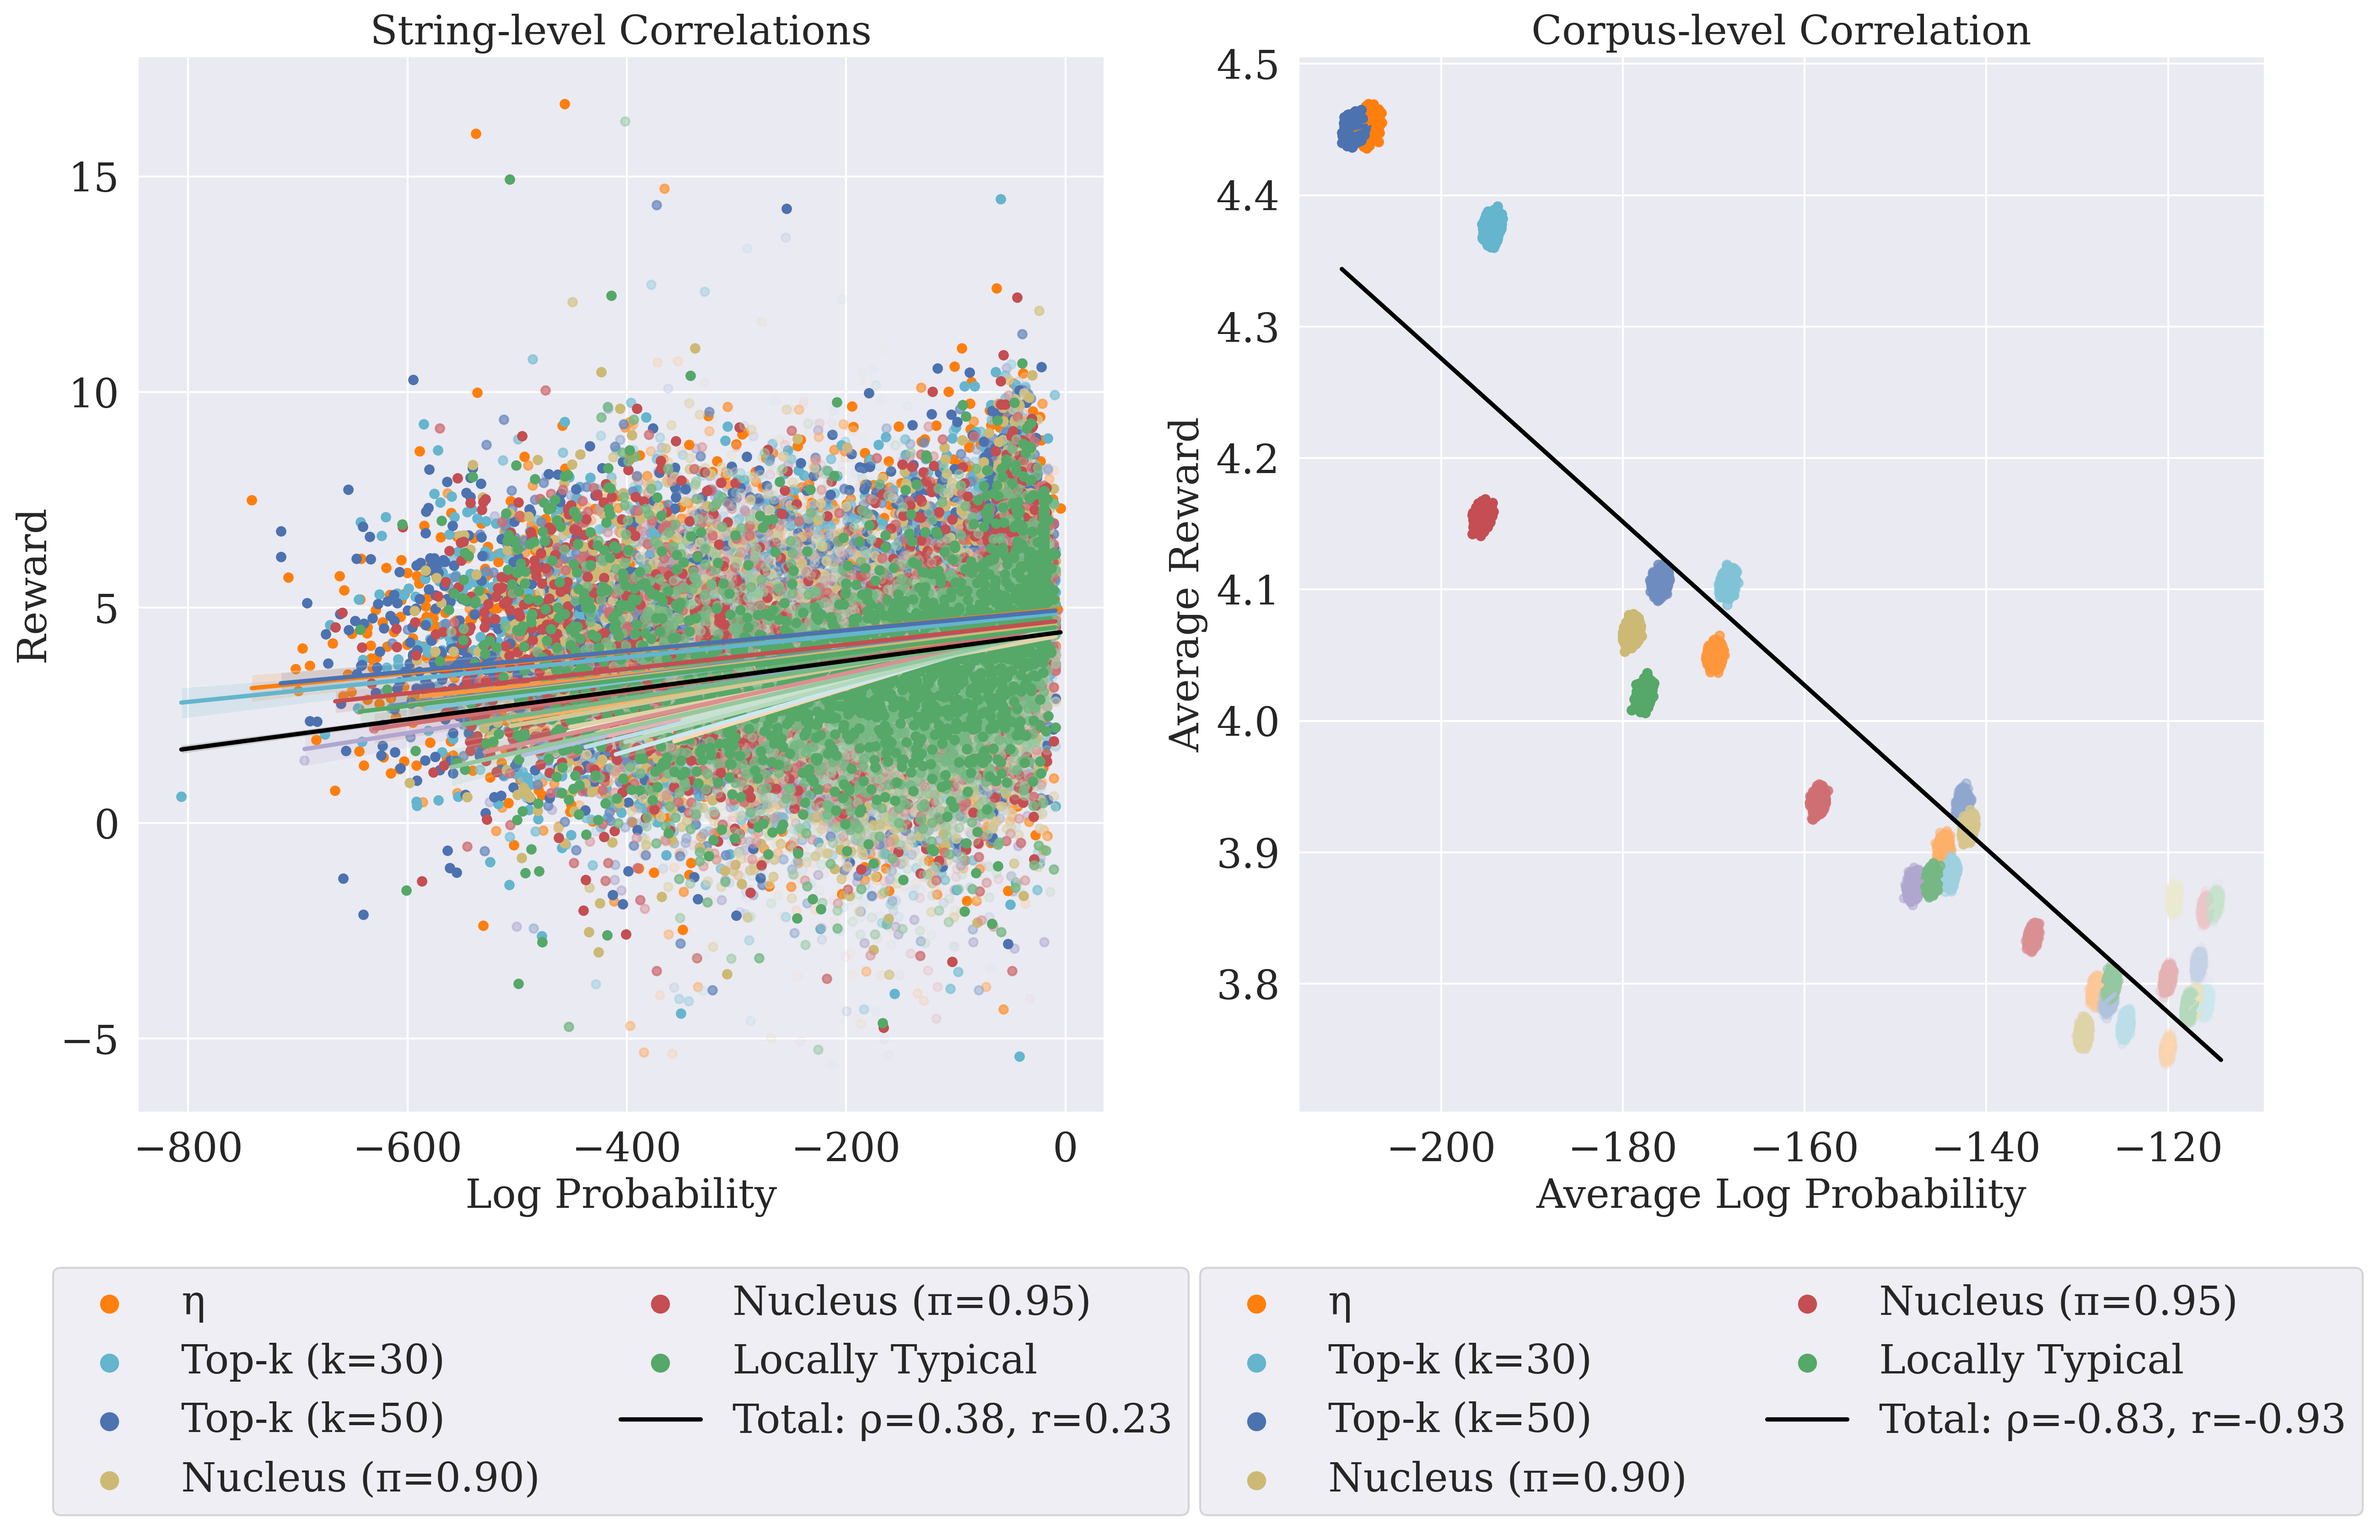
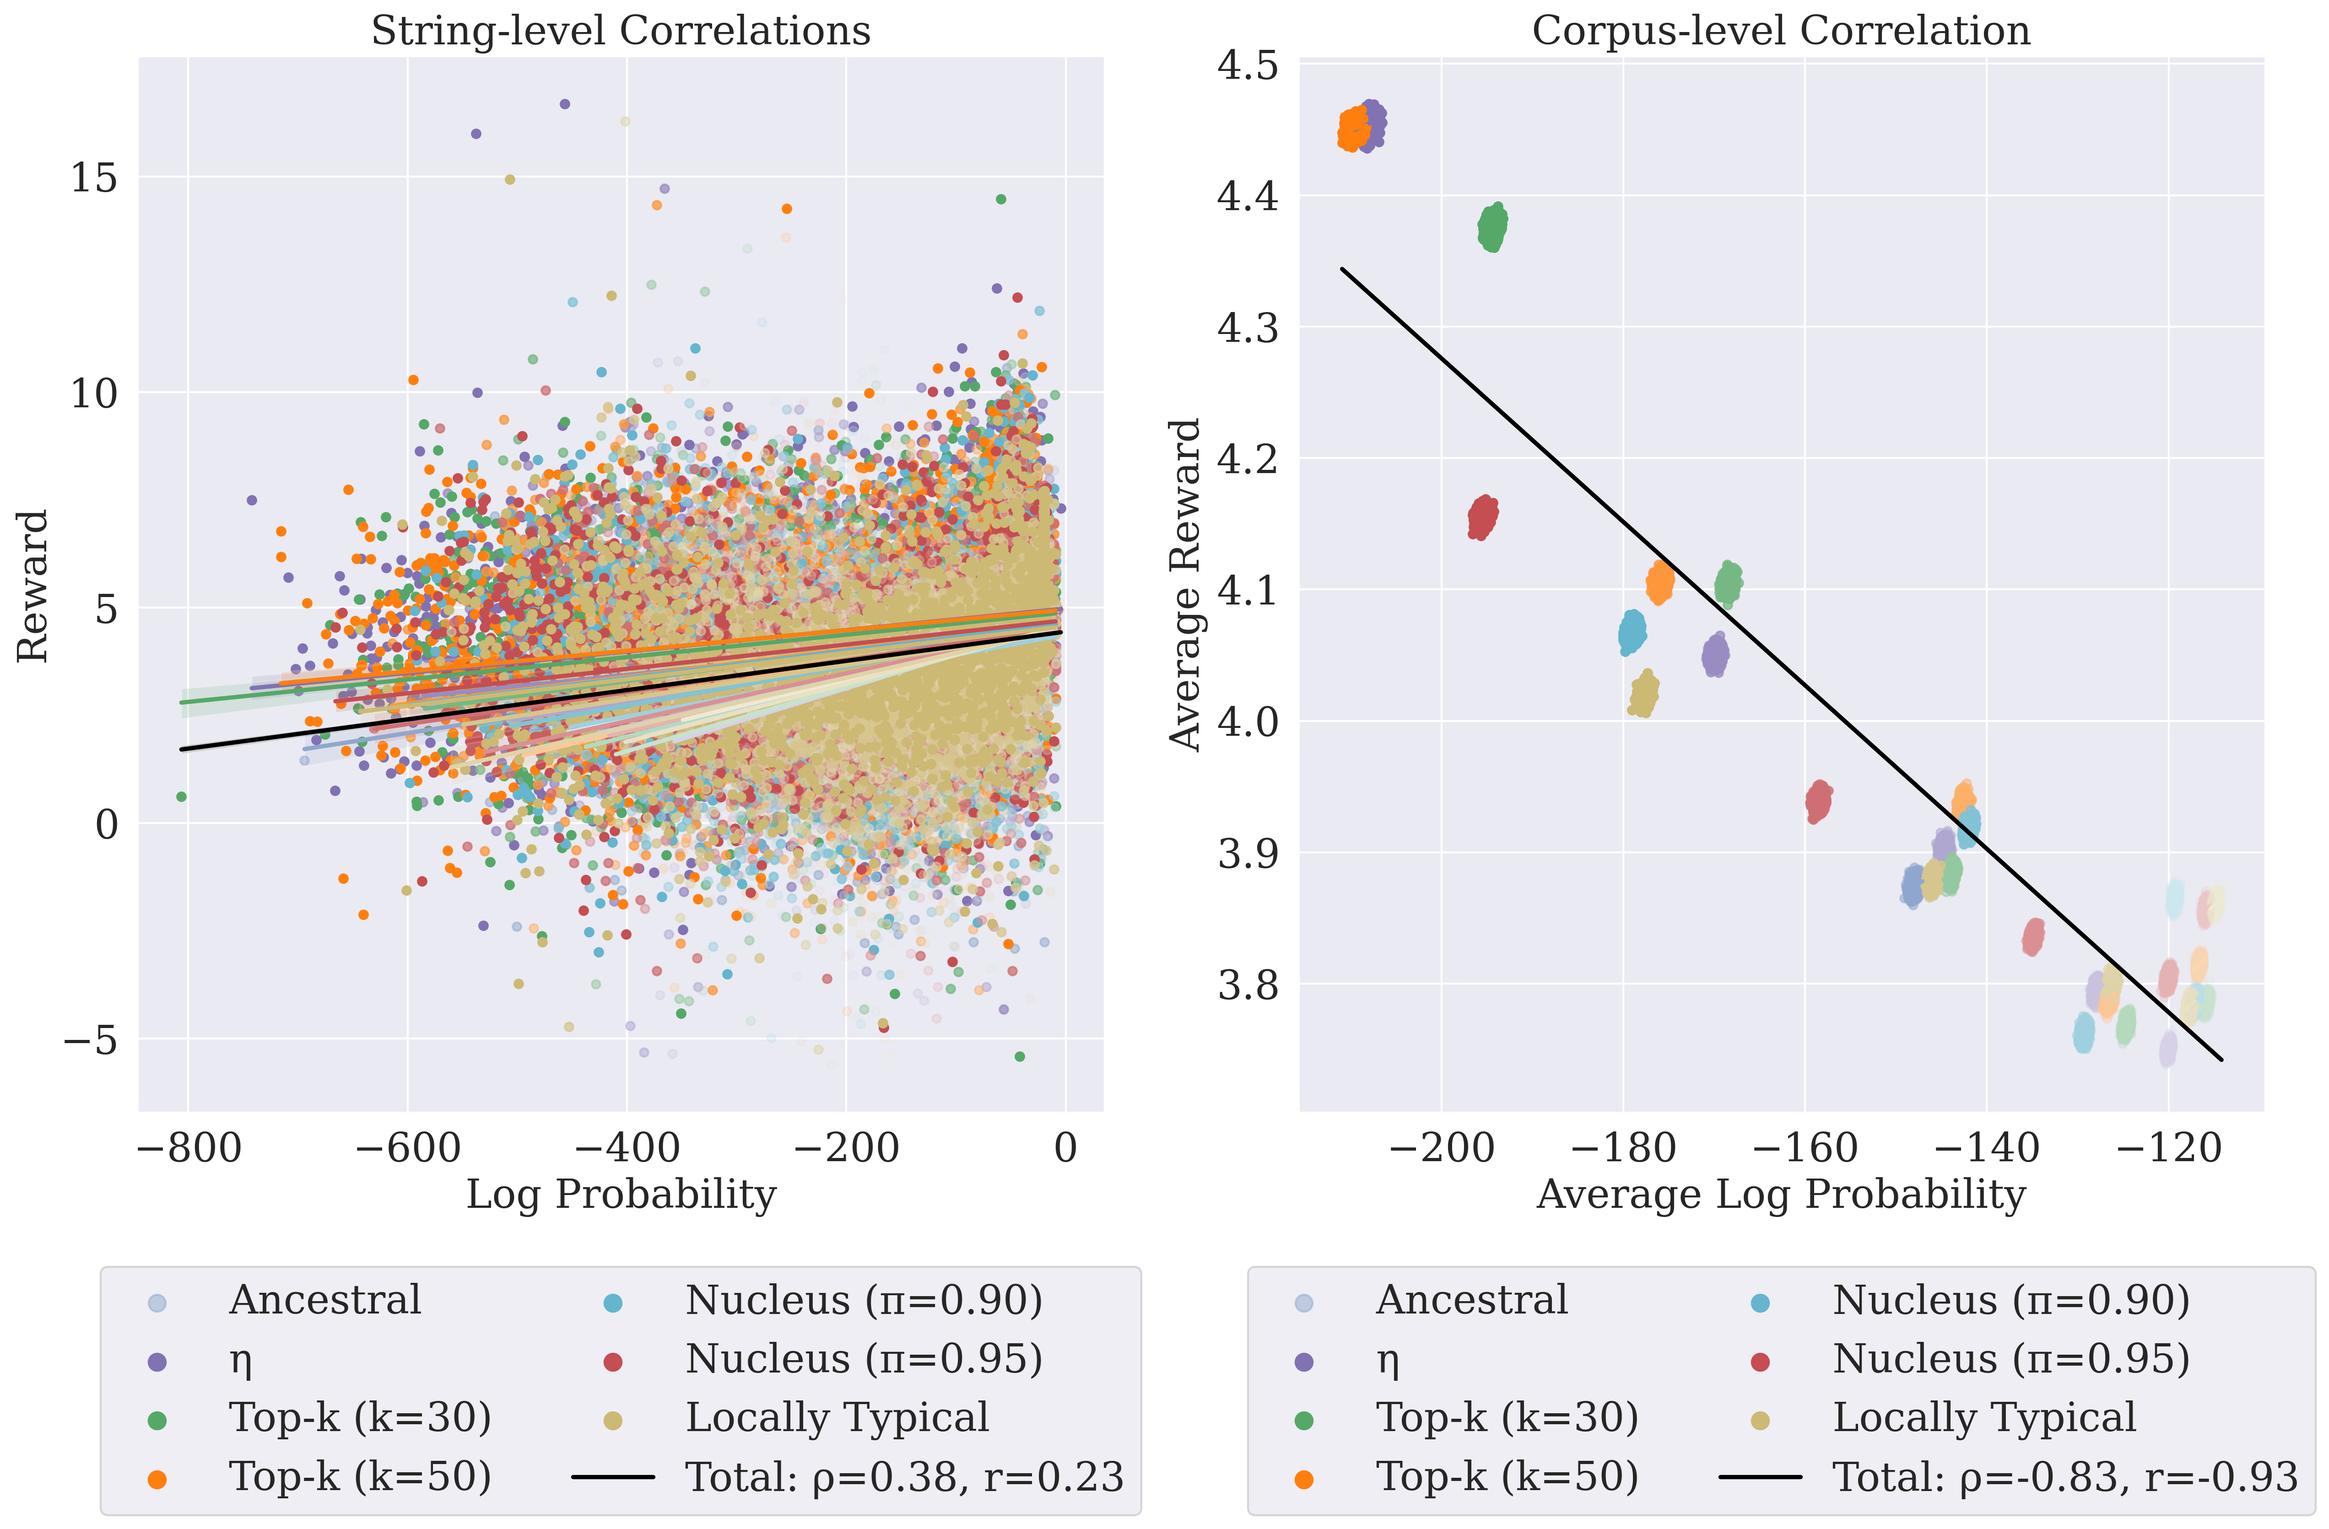
Update readme

diff --git a/src/experiments/language_model_experiments/create_figures.py b/src/experiments/language_model_experiments/create_figures.py
@@ -161,6 +161,7 @@ def main():
             label=(
                 f"{sampling_type_metadata.pretty_name}"
                 if sampling_type_metadata.temperature == 1.5
+                or sampling_type_metadata.sampling_type == "ancestral_strict"
                 else None
             ),
         )
@@ -205,6 +206,7 @@ def main():
             label=(
                 f"{sampling_type_metadata.pretty_name}"
                 if sampling_type_metadata.temperature == 1.5
+                or sampling_type_metadata.sampling_type == "ancestral_strict"
                 else None
             ),
         )

diff --git a/README.md b/README.md
@@ -1,1 +1,44 @@
-# probability-quality-paradox
+# A Fundamental Trade-off in Aligned Language Models and its Relation to Sampling Adaptors
+
+This is the repository containing code to replicate the experiments in [our paper]().
+
+## Environment set up 
+Create a python environment and then run:
+```
+pip install -r requirements.txt
+```
+
+## Toy Experiment
+To run our toy data experiment, run all cells in `/src/experiments/toy_data_experiments`.
+
+## Language Model Experiment
+To run our empirical experiment, we will need to: 
+1. Generate strings with different sampling adaptors using an RLHF-tuned model.
+2. Score the generated corpora and compute their log-probabilities under the prior and RLHF-tuned model with the sampling adaptor. 
+3. Run the Independent Metropolis Hastings Algorithm. 
+
+To do so, you can use our files or run the scripts to generate everything from scratch. 
+
+### Option 1: download our files and generate the figures
+1. Download `data.zip` from [here]().
+2. Unzip the files into `src/language_model_experiments/data`.
+3. Download the cached intermediate outputs `.cache.zip` from [here]().
+4. Unzip the files into `src/language_model_experiments/.cache`.
+5. Generate the figures with 
+```
+bash create_figures.sh
+```
+
+Option 2: Run the experiment from scratch
+1. Generate all 25 corpora with:
+```
+bash generate.sh
+```
+2. Score all 25 corpora with:
+```
+bash score_with_correction.sh
+```
+3. Run the Independent Metropolis Hastings algorithm and generate the figures with:
+```
+create_figures.sh
+```
